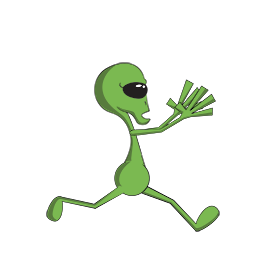
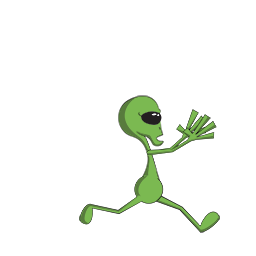
Update assets - Add joyous, teaching, typing - Update running

Changed region(s): [[0.1562, 0.2188, 0.875, 0.9062]]

diff --git a/server/comic.php b/server/comic.php
@@ -53,7 +53,7 @@ function generatePrompt($premise) {
 		"`title`: The title of the comic strip. Limit to 50 letters.",
 		"`scene`: A description of the panel scene including all characters. Limit to 200 letters.",
 		"`setting`: A unique, detailed, description of what the panel scene would look like without the main character present. Limit to 500 letters.",
-		"`character`: A description of the main character's action. It can be one of the following values: `angry`, `approval`, `explaining`, `running`, `sitting`, `standing` or `terrified`.",
+		"`character`: A description of the main character's action. It can be one of the following values: `angry`, `approval`, `explaining`, `joyous`, `running`, `sitting`, `standing`, `teaching`, `terrified`  or `typing`.",
 		"`dialog`: Dialog spoken by the main character. This can be an empty string if the character is not speaking. Limit to 150 letters.",
 	);
 
